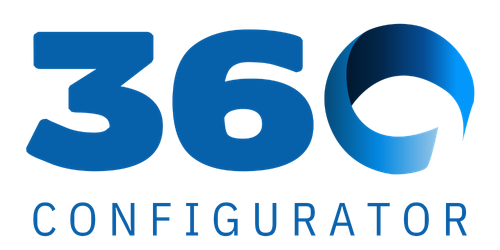
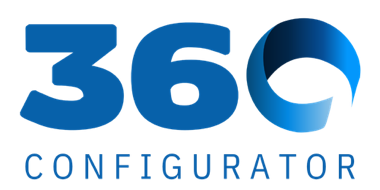
perf: reduce mobile hero render blocking

diff --git a/website/app/critical-polish.css b/website/app/critical-polish.css
@@ -1,0 +1,100 @@
+:root,
+:root[data-theme="dark"] {
+  --spatial-glass: linear-gradient(135deg, rgba(18, 24, 29, 0.24), rgba(5, 5, 7, 0.08));
+  --spatial-glass-line: rgba(111, 198, 242, 0.22);
+  --control-surface: rgba(5, 8, 11, 0.5);
+}
+
+:root[data-theme="light"] {
+  --spatial-glass: linear-gradient(135deg, rgba(255, 255, 255, 0.34), rgba(235, 241, 242, 0.1));
+  --spatial-glass-line: rgba(7, 97, 170, 0.2);
+  --control-surface: rgba(246, 248, 246, 0.55);
+}
+
+.home-page .hero-sticky { position: relative; top: auto; }
+.home-page .hero-sticky h1,
+.home-page .hero-sticky h1 span { color: var(--ink); -webkit-text-stroke: 0; text-shadow: none; }
+.home-page .hero-sticky h1 span { opacity: .72; }
+.home-page .hero-copy {
+  padding: 21px 23px;
+  margin-top: 52px;
+  background: var(--spatial-glass);
+  border: 1px solid var(--spatial-glass-line);
+  box-shadow: inset 0 1px 0 rgba(255,255,255,.12), 0 30px 90px rgba(0,0,0,.08);
+  backdrop-filter: blur(18px) saturate(1.22);
+  -webkit-backdrop-filter: blur(18px) saturate(1.22);
+}
+.home-page .hero-copy p { color: var(--ink); }
+
+.window-hero-poster {
+  position: fixed;
+  inset: 0;
+  z-index: 1;
+  overflow: hidden;
+  pointer-events: none;
+  opacity: 1;
+  transition: opacity .42s ease;
+}
+.window-hero-poster.is-hidden { opacity: 0; }
+.window-hero-poster-object {
+  position: absolute;
+  left: 50%;
+  top: 50%;
+  width: clamp(220px,29vw,470px);
+  aspect-ratio: .68;
+  padding: clamp(18px,2vw,34px);
+  transform: translate(-50%,-45%) perspective(1300px) rotateY(-6deg);
+  background: linear-gradient(105deg,rgba(255,255,255,.08),transparent 24%,rgba(255,255,255,.2) 47%,transparent 59%),linear-gradient(135deg,#07090b 0%,#20262b 45%,#050607 100%);
+  border: 1px solid rgba(53,156,231,.28);
+  box-shadow: 0 36px 90px rgba(0,0,0,.32),inset 0 0 0 2px rgba(255,255,255,.025);
+}
+[data-theme="dark"] .window-hero-poster-object {
+  background: linear-gradient(105deg,rgba(255,255,255,.14),transparent 24%,rgba(255,255,255,.62) 47%,transparent 59%),linear-gradient(135deg,#d8d9d5 0%,#fafafa 46%,#bfc2c1 100%);
+  box-shadow: 0 36px 100px rgba(0,0,0,.5),inset 0 0 0 2px rgba(0,0,0,.04);
+}
+.window-hero-poster-glass {
+  width: 100%; height: 100%;
+  background: linear-gradient(145deg,rgba(119,173,207,.76),rgba(7,32,59,.94));
+  border: 2px solid rgba(109,177,220,.5);
+  box-shadow: inset 18px 0 36px rgba(255,255,255,.12),inset -12px 0 26px rgba(0,0,0,.3);
+}
+.window-hero-poster-handle {
+  position: absolute; right: -1.5%; top: 52%; width: 25%; height: 2.7%;
+  border-radius: 2px; transform: translateY(-50%);
+  background: linear-gradient(180deg,#f1cf76,#9c5e13 52%,#6d3d09);
+  box-shadow: 0 2px 8px rgba(0,0,0,.36);
+}
+.window-hero-poster-handle::after {
+  content: ""; position: absolute; right: -5%; top: 50%; width: 22%; aspect-ratio: .42;
+  border-radius: 45%; transform: translateY(-50%); background: linear-gradient(90deg,#81500d,#dba63f);
+}
+.window-hero-poster-dimension {
+  position: absolute; color: #d5f5ff; border: 1px solid rgba(65,202,255,.62);
+  border-radius: 999px; background: rgba(24,48,75,.78); padding: 7px 13px;
+  font: 700 11px var(--font-geist-mono); box-shadow: 0 0 22px rgba(53,156,231,.18);
+}
+.window-hero-poster-dimension.dimension-height { left: calc(50% - clamp(185px,21vw,345px)); top: 48%; }
+.window-hero-poster-dimension.dimension-width { left: 50%; top: calc(50% + clamp(180px,27vw,385px)); transform: translateX(-50%); }
+.window-hero-runtime {
+  position: fixed; inset: 0; width: 100%; height: 100%; z-index: 1; border: 0;
+  opacity: 0; pointer-events: none; transition: opacity .45s ease;
+}
+.window-hero-runtime.is-visible { opacity: 1; }
+
+@media (max-width:720px) {
+  .site-header { height: 68px; }
+  .brand-lockup { width: 118px; }
+  .spatial-hero { height: 205svh; }
+  .hero-sticky { padding-top: 94px; }
+  .hero-index { top: 92px; }
+  .hero-sticky h1 {
+    max-width: 11ch;
+    margin-top: 68px;
+    font-size: clamp(45px,13.2vw,58px);
+    line-height: .91;
+    text-wrap: balance;
+  }
+  .home-page .hero-copy { width: 100%; margin-top: 30px; padding: 18px; }
+  .hero-copy p { font-size: 15px; line-height: 1.62; }
+  :lang(de) .hero-sticky h1 { font-size: clamp(42px,12.6vw,54px); }
+}

diff --git a/website/app/layout.tsx b/website/app/layout.tsx
@@ -1,9 +1,10 @@
 import type { Metadata, Viewport } from "next";
 import { Geist, Geist_Mono } from "next/font/google";
 import "./globals.css";
-import "./homepage-polish.css";
+import "./critical-polish.css";
 import { languageAlternates, SITE_URL } from "../lib/seo";
 import { GoogleAnalytics } from "../components/google-analytics";
+import { DeferredPolishStyles } from "../components/deferred-polish-styles";
 
 const geistSans = Geist({
   variable: "--font-geist-sans",
@@ -15,6 +16,7 @@ const geistMono = Geist_Mono({
   variable: "--font-geist-mono",
   subsets: ["latin"],
   display: "swap",
+  preload: false,
 });
 
 export const metadata: Metadata = {
@@ -89,6 +91,7 @@ export default function RootLayout({ children }: Readonly<{ children: React.Reac
       </head>
       <body className={`${geistSans.variable} ${geistMono.variable}`}>
         {children}
+        <DeferredPolishStyles />
         <GoogleAnalytics />
       </body>
     </html>

diff --git a/website/components/site-header.tsx b/website/components/site-header.tsx
@@ -45,7 +45,7 @@ export function SiteHeader({ locale = "en", currentPath = "/" }: { locale?: Loca
         <a className="brand-lockup" href={localizedPath(locale)} aria-label="360Configurator home">
           {/* The supplied transparent wordmark is already optimized and must retain its exact proportions. */}
           {/* eslint-disable-next-line @next/next/no-img-element */}
-          <img src="/brand/360configurator.png" alt="360Configurator" />
+          <img src="/brand/360configurator.png" alt="360Configurator" width={380} height={190} />
         </a>
         <nav className="desktop-nav" aria-label="Primary navigation">
           {/* Native anchors intentionally bypass vinext's broken cross-route hash navigation. */}

diff --git a/website/components/deferred-polish-styles.tsx b/website/components/deferred-polish-styles.tsx
@@ -1,0 +1,20 @@
+"use client";
+
+import { useEffect } from "react";
+
+const POLISH_STYLESHEET = "/styles/homepage-polish.css";
+
+export function DeferredPolishStyles() {
+  useEffect(() => {
+    if (document.querySelector(`link[href="${POLISH_STYLESHEET}"]`)) return;
+
+    const link = document.createElement("link");
+    link.rel = "stylesheet";
+    link.href = POLISH_STYLESHEET;
+    link.dataset.deferredPolish = "true";
+
+    requestAnimationFrame(() => document.head.appendChild(link));
+  }, []);
+
+  return null;
+}

diff --git a/website/components/site-footer.tsx b/website/components/site-footer.tsx
@@ -11,7 +11,7 @@ export function SiteFooter({ locale = "en" }: { locale?: Locale }) {
       <div className="footer-main page-frame">
         <div className="footer-brand">
           {/* eslint-disable-next-line @next/next/no-img-element */}
-          <img src="/brand/360configurator.png" alt="360Configurator" />
+          <img src="/brand/360configurator.png" alt="360Configurator" width={380} height={190} />
           <p>{copy.footerLine}</p>
         </div>
         <div className="footer-links">
